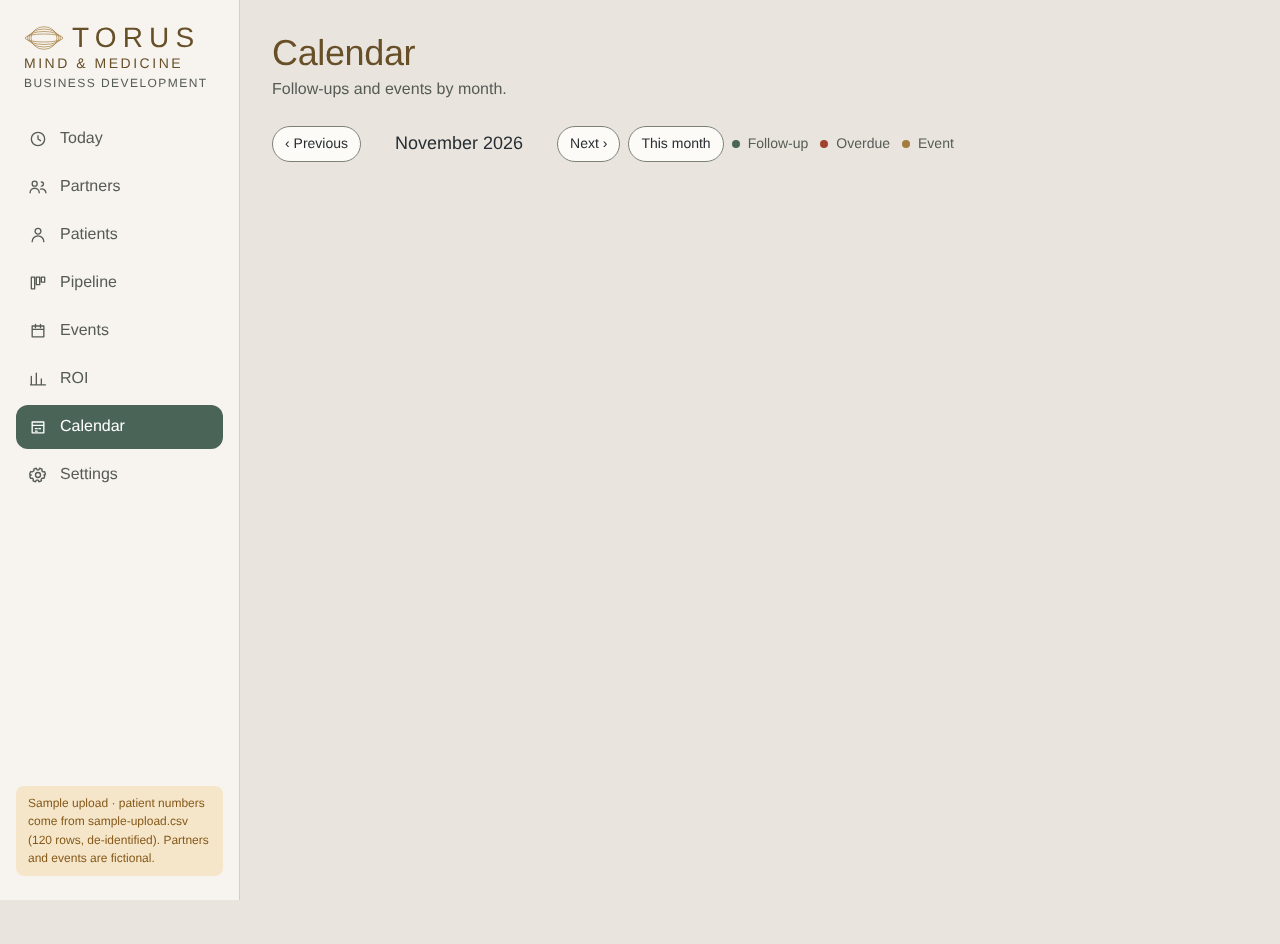
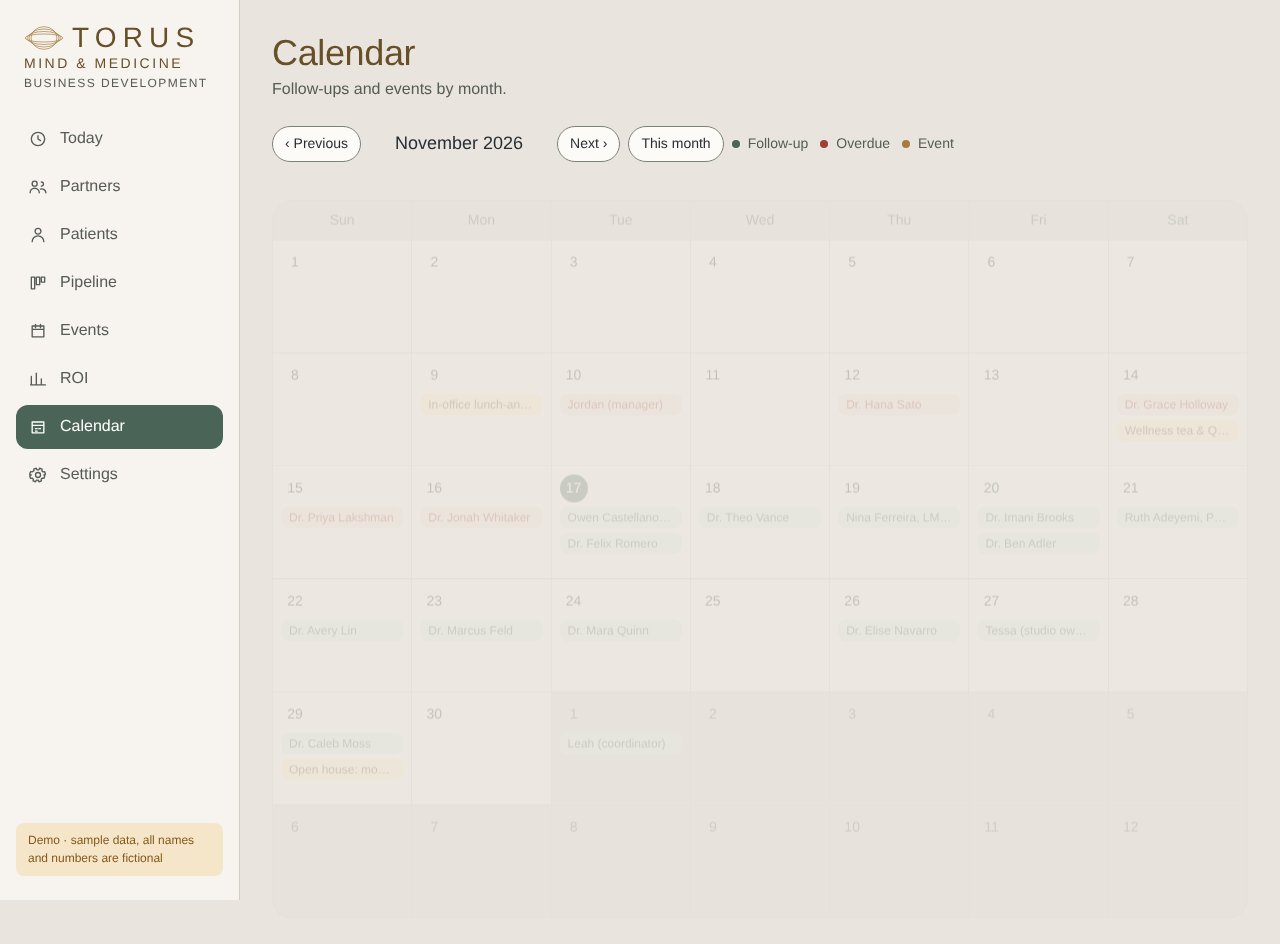
Main shows Torus data; demo data kept on demo-backup
- demo/torus-demo.json: Torus's monthly patient counts from the Nov 17 IntakeQ
  export (counts only, no patient details) and the 13 playbook partners.
  scripts/write-config.mjs loads it in demo mode; live mode ignores it.
- Brings in the sample-upload import improvements.
- Tests pin themselves to the built-in sample data.
- demo-backup branch = the previous main with fictional demo data.

Claude-Session: https://claude.ai/code/session_016Broc13AmVu7DcJiKXFPp3

Changed region(s): [[0.0, 0.8294, 0.1875, 0.9216], [0.4375, 0.4915, 0.4688, 0.553]]

diff --git a/dashboard/config.js b/dashboard/config.js
@@ -1,3 +1,3 @@
 /* Generated at deploy time. DEMO: sample data. */
 window.TORUS_CONFIG = null;
-window.TORUS_DEMO = {"csv":"sample-upload.csv"};
+window.TORUS_DEMO = {"blank":true,"openDate":"2026-09-09","partners":[{"id":"P-001","contact":"Dr. Jane Doe","org":"Sample Wellness Clinic","type":"Clinical referrer","activity":"A1","spec":"HRT / cash-pay wellness","city":"Stuart","status":"Cold","owner":"Shari","nextStep":"20-min in-person meeting; co-produce HRT–ketamine one-pager"},{"id":"P-002","contact":"Ketamine / pain specialist (TBD)","org":"Example Pain Management","type":"Clinical referrer","activity":"A1","spec":"Pain management","city":"Port St. Lucie","status":"Cold","owner":"Kim","nextStep":"Partnership intro + education series invite"},{"id":"P-003","contact":"Dr. John Doe","org":"Demo Functional Medicine","type":"Clinical referrer","activity":"A3","spec":"Functional medicine","city":"Stuart / Jensen Beach","status":"Cold","owner":"Kim","nextStep":"Invite to first lunch-and-learn"},{"id":"P-004","contact":"TBD","org":"Sample Primary Care","type":"Clinical referrer","activity":"A3","spec":"Primary care","city":"Palm City / PSL","status":"Cold","owner":"Kim","nextStep":"Invite to first lunch-and-learn"},{"id":"P-005","contact":"TBD","org":"OB-GYN practice #1","type":"Clinical referrer","activity":"A3","spec":"OB-GYN","city":"Stuart","status":"Cold","owner":"Kim","nextStep":"Perimenopause–mood brief"},{"id":"P-006","contact":"TBD","org":"OB-GYN practice #2","type":"Clinical referrer","activity":"A3","spec":"OB-GYN","city":"Palm City","status":"Cold","owner":"Kim","nextStep":"Perimenopause–mood brief"},{"id":"P-007","contact":"First-responder providers","org":"Example Health Center","type":"Clinical referrer","activity":"A3","spec":"Primary care","city":"Port St. Lucie","status":"Cold","owner":"Kim","nextStep":"Invite to first lunch-and-learn"},{"id":"P-008","contact":"Studio owner","org":"Sample Yoga Studio","type":"Community venue","activity":"A4","spec":"Yoga studio","city":"Jupiter","status":"Cold","owner":"Annette","nextStep":"Propose monthly co-hosted talk"},{"id":"P-009","contact":"TBD","org":"Example Yoga Studio","type":"Community venue","activity":"A4","spec":"Yoga studio","city":"Stuart","status":"Cold","owner":"Annette","nextStep":"Propose monthly co-hosted talk"},{"id":"P-010","contact":"TBD","org":"Demo Yoga Studio","type":"Community venue","activity":"A4","spec":"Yoga studio","city":"Jupiter","status":"Cold","owner":"Annette","nextStep":"Propose monthly co-hosted talk"},{"id":"P-011","contact":"Colleague (TBD)","org":"Hospital #1","type":"Hospital colleague","activity":"A5","spec":"","city":"Palm Beach Gardens","status":"Cold","owner":"Shari","nextStep":"Personal note: 15-min catch-up"},{"id":"P-012","contact":"Colleague (TBD)","org":"Hospital #2","type":"Hospital colleague","activity":"A5","spec":"","city":"Delray Beach","status":"Cold","owner":"Shari","nextStep":"Personal note: 15-min catch-up"},{"id":"P-013","contact":"Colleague (TBD)","org":"Hospital #3","type":"Hospital colleague","activity":"A5","spec":"","city":"","status":"Cold","owner":"Shari","nextStep":"Personal note: 15-min catch-up"}],"counts":[{"month":"2026-09-01","via":"Not recorded","source":"Not recorded","leads":8},{"month":"2026-10-01","via":"Not recorded","source":"Not recorded","leads":2},{"month":"2026-10-01","via":"Not recorded","source":"Avonny","leads":1},{"month":"2026-10-01","via":"Not recorded","source":"Community event","leads":1},{"month":"2026-10-01","via":"Not recorded","source":"Psychology Today","leads":1},{"month":"2026-11-01","via":"Not recorded","source":"Not recorded","leads":2}],"label":"Torus IntakeQ export (Nov 17, 2026)","note":"Counts exclude clients who weren't business-development leads. The export has no consult, package or how-did-you-hear fields, so consults and conversions show 0 and most sources are 'Not recorded'.","footer":"Torus data · monthly patient counts from the Nov 17 IntakeQ export (no patient details); partners are the playbook targets."};

diff --git a/scripts/func.py b/scripts/func.py
@@ -11,6 +11,7 @@ async def main():
     async with async_playwright() as p:
         b = await p.chromium.launch(executable_path="/usr/bin/google-chrome")
         pg = await b.new_page(viewport={"width":1280,"height":900}); errs=[]
+        await pg.route("**/config.js", lambda r: r.fulfill(body="window.TORUS_CONFIG = null;", content_type="application/javascript"))  # tests use the built-in sample data
         pg.on("pageerror", lambda e: errs.append(str(e)))
         await pg.goto(B+"#partners")
         await pg.click("text=Add a partner"); await pg.click("text=Add partner")

diff --git a/scripts/shoot.py b/scripts/shoot.py
@@ -15,6 +15,7 @@ async def main():
         errs = []
         for w in (1280, 375):
             pg = await b.new_page(viewport={"width": w, "height": 900})
+            await pg.route("**/config.js", lambda r: r.fulfill(body="window.TORUS_CONFIG = null;", content_type="application/javascript"))  # tests use the built-in sample data
             pg.on("pageerror", lambda e, w=w: errs.append(f"[{w}] {e}"))
             pg.on("console", lambda m, w=w: m.type == "error" and "ERR_" not in m.text and errs.append(f"[{w}] {m.text}"))
             for r in routes:
